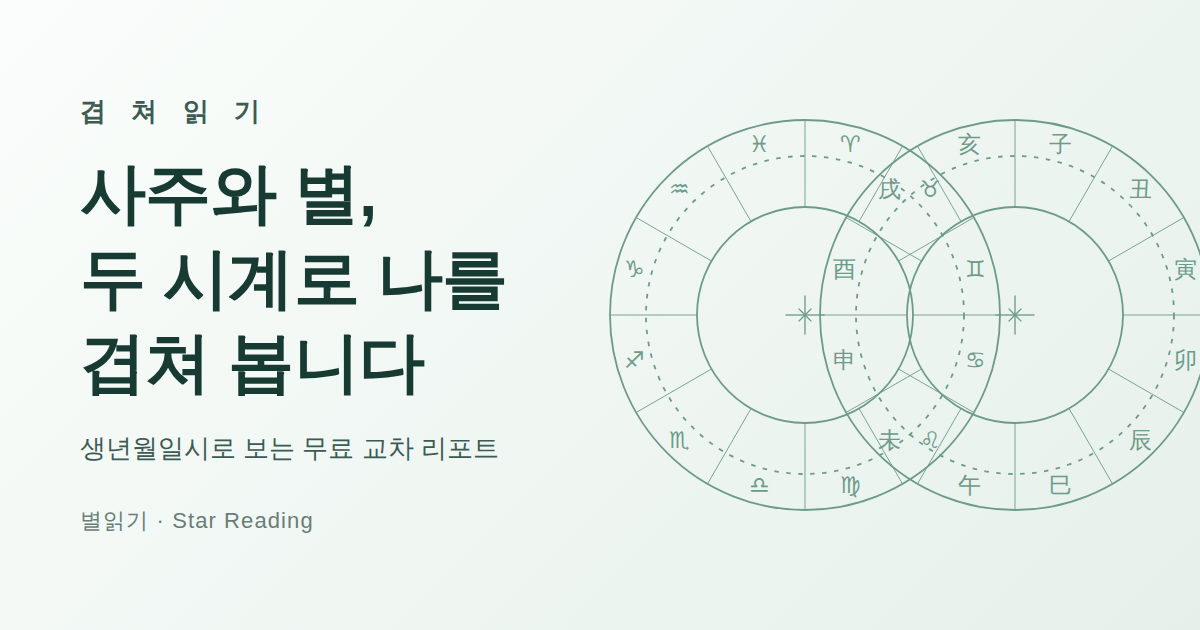
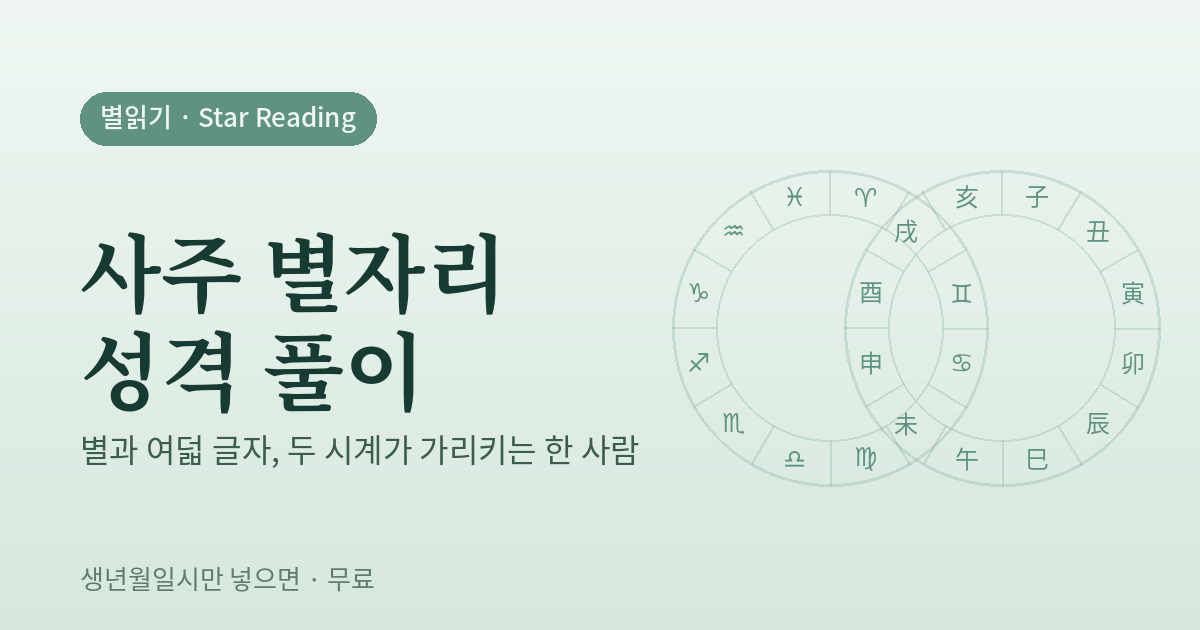
Add files via upload

diff --git a/web_app.py b/web_app.py
@@ -1,6 +1,6 @@
 # -*- coding: utf-8 -*-
 """
-「겹쳐읽기」 무료 자동 리포트 웹앱 v3 (확정 디자인 반영)
+「사주 별자리 성격 풀이」 무료 자동 리포트 웹앱 v3 (바깥이름=성격풀이 / 안쪽감성=겹쳐·두시계)
 - 디자인: 옥색 흰빛 배경 + 12사인·12지지 겹친 천문반 워터마크. 로고 없이 제목부터.
 - 입력: 양력/음력(+조건부 윤달) · 출생지(주요 도시 하드코딩 + 검색/지오코딩) · 시간 모름(정오)
 - 흐름: 입력 → (대기화면 스피너 + 배너) → 리포트 + 배너
@@ -342,7 +342,7 @@ function openBooks(e){e.preventDefault();document.getElementById('booksModal').c
 function closeBooks(){document.getElementById('booksModal').classList.add('hide');}
 function shareSite(){
   var url=location.origin+'/';
-  if(navigator.share){navigator.share({title:'사주와 별, 두 시계로 나를 겹쳐 봅니다',text:'사주와 점성술로 나를 교차 검토한 무료 리포트, 나도 받아봤어요 🌗',url:url}).catch(function(){});return;}
+  if(navigator.share){navigator.share({title:'사주 별자리 성격 풀이 — 두 시계가 가리키는 나',text:'사주랑 별자리로 내 성격 보는 무료 풀이, 나도 해봤어요 🌗',url:url}).catch(function(){});return;}
   if(navigator.clipboard){navigator.clipboard.writeText(url).catch(function(){});}
   var t=document.getElementById('copytoast');if(t){t.style.display='block';setTimeout(function(){t.style.display='none';},2000);}
 }
@@ -350,7 +350,7 @@ function submitForm(e){
   e.preventDefault();
   var out=document.getElementById('out');
   document.getElementById('top').style.display='none';   // 입력 폼 감추기(로딩 붕뜸 방지)
-  out.innerHTML='<div class="card loadcard"><div class="spin"></div><div class="loadmsg">사주와 별을 나란히 맞춰보는 중…</div></div>'
+  out.innerHTML='<div class="card loadcard"><div class="spin"></div><div class="loadmsg">두 시계를 겹쳐 맞춰보는 중…</div></div>'
     +document.getElementById('bnr').innerHTML;
   window.scrollTo({top:0,behavior:'smooth'});
   fetch('/generate',{method:'POST',body:new URLSearchParams(new FormData(f))})
@@ -364,9 +364,9 @@ function submitForm(e){
 
 PAGE = ("<!DOCTYPE html><html lang=ko><head><meta charset=utf-8>"
         "<meta name=viewport content='width=device-width,initial-scale=1'>"
-        "<title>겹쳐읽기 · 사주와 점성술로 보는 나</title>"
-        "<meta property='og:title' content='사주와 별, 두 시계로 나를 겹쳐 봅니다'>"
-        "<meta property='og:description' content='생년월일시만 넣으면 사주와 점성술로 나를 교차 검토한 리포트를 무료로 받아보세요.'>"
+        "<title>사주 별자리 성격 풀이 · 별과 사주로 보는 나</title>"
+        "<meta property='og:title' content='사주 별자리 성격 풀이 — 두 시계가 가리키는 나'>"
+        "<meta property='og:description' content='생년월일시만 넣으면 사주와 별자리가 함께 그려내는 내 성격을 무료로 받아봐요.'>"
         "<meta property='og:type' content='website'>"
         "<meta property='og:image' content='"+SITE_URL+"/og.png'>"
         "<meta property='og:url' content='"+SITE_URL+"/'>"
@@ -425,7 +425,7 @@ def report_fragment(name, text, palja, warns):
             + '<p class="discover">여기까지가 맛보기예요. 두 시계가 왜 같은 자리를 가리키는지, 그 겹침을 끝까지 따라가 보고 싶다면 —</p>'
             + book_banner()
             + '<button class="sharebtn" onclick="shareSite()">🔗 친구에게 소개하기</button>'
-            + '<div class="backlink"><a href="/">🔄 다른 사주 보기</a></div>')
+            + '<div class="backlink"><a href="/">🔄 다른 생일로 다시 보기</a></div>')
 
 class Handler(http.server.BaseHTTPRequestHandler):
     def _send(self, s, code=200):
